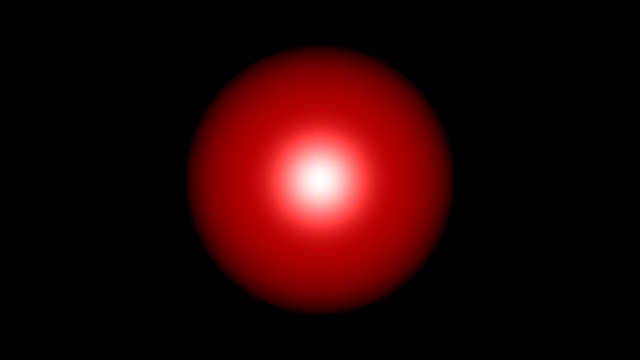
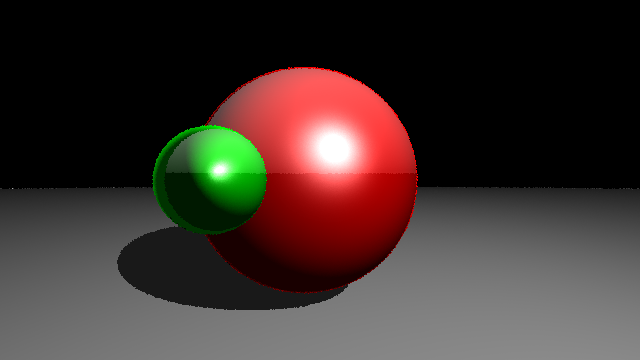
Fix shadows and add reflections

diff --git a/materials/BlinnPhongMaterial.py b/materials/BlinnPhongMaterial.py
@@ -1,5 +1,5 @@
 import numpy as np
-from utils import normalize
+from utils import *
 from materials.Material import Material
 
 
@@ -7,15 +7,21 @@ class BlinnPhongMaterial(Material):
     def __init__(self, color):
         super().__init__(color)
 
-    def get_color(self, surface_normal, ambient, lights, intersection, camera, hitables):
+    def get_color(self, surface_normal, ambient, lights, intersection, camera, hitables, max_reflections):
         illumination = np.zeros(3)
         illumination += self.color["ambient"] * ambient
+        camera_vector = normalize(camera - intersection)
         for light in lights:
-            light_vector = normalize(light.position - intersection)
-            if np.dot(light_vector, surface_normal) >= 0:
-                illumination += self.color["diffuse"] * light.diffuse * np.dot(light_vector, surface_normal)
-
-                camera_vector = normalize(camera - intersection)
-                illumination += self.color["specular"] * light.diffuse * np.dot(surface_normal, normalize(light_vector + camera_vector)) ** (self.color["shininess"] / 4)
-
+            shadow_ray = normalize(light.position - (intersection + 1e-5 * surface_normal))
+            is_shadowed = False
+            for hitable in hitables:
+                if hitable.intersect(shadow_ray, intersection + 1e-5 * surface_normal):
+                    is_shadowed = True
+            if np.dot(shadow_ray, surface_normal) >= 0 and not is_shadowed:
+                illumination += self.color["diffuse"] * light.diffuse * np.dot(shadow_ray, surface_normal)
+                illumination += self.color["specular"] * light.diffuse * np.dot(surface_normal, normalize(shadow_ray + camera_vector)) ** (self.color["shininess"] / 4)
+        try:
+            illumination += self.color["reflection"] * ray_trace(origin=intersection, direction=camera_vector - 2 * np.dot(camera, surface_normal) * surface_normal, hitables=hitables, ambient=ambient, lights=lights, max_reflections=max_reflections)
+        except TypeError:
+            pass
         return illumination

diff --git a/main.py b/main.py
@@ -4,7 +4,6 @@ from hitables.Sphere import Sphere
 from materials.BlinnPhongMaterial import BlinnPhongMaterial
 from utils import *
 
-
 cameraPos = np.array([0, 0, 0])
 
 width, height = 640, 360
@@ -14,17 +13,33 @@ imagePlane = np.array([
     [-0.89, -0.5, 1], [+0.89, -0.5, 1]
 ])
 
-scene = Scene(cameraPos, width, height, imagePlane, 1, np.array([1, 1, 1]))
+scene = Scene(cameraPos, width, height, imagePlane, 1, np.array([1, 1, 1]), 3)
 
-
-scene.add_hitable(Sphere(centre=np.array([0, 0, 2]), radius=0.7, material=BlinnPhongMaterial({
+scene.add_hitable(Sphere(centre=np.array([-0.2, 0, 5]), radius=1.5, material=BlinnPhongMaterial({
     "ambient": np.array([0.1, 0, 0]),
     "diffuse": np.array([0.7, 0, 0]),
     "specular": np.array([1, 1, 1]),
-    "shininess": 100
+    "shininess": 100,
+    "reflection": 1
+})))
+
+scene.add_hitable(Sphere(centre=np.array([-0.3, 0, 1]), radius=0.15, material=BlinnPhongMaterial({
+    "ambient": np.array([0, 0.1, 0]),
+    "diffuse": np.array([0, 0.7, 0]),
+    "specular": np.array([1, 1, 1]),
+    "shininess": 100,
+    "reflection": 1
 })))
 
 
-scene.add_light(Light(position=np.array([0, 0, -3]), diffuse=np.array([1, 1, 1]), specular=np.array([1, 1, 1])))
+scene.add_hitable(Sphere(centre=np.array([0, -9000, 1]), radius=9000 - 1.5, material=BlinnPhongMaterial({
+    "ambient": np.array([0.1, 0.1, 0.1]),
+    "diffuse": np.array([0.7, 0.7, 0.7]),
+    "specular": np.array([1, 1, 1]),
+    "shininess": 100,
+    "reflection": 1
+})))
+
+scene.add_light(Light(position=np.array([5, 5, -4]), diffuse=np.array([1, 1, 1]), specular=np.array([1, 1, 1])))
 
 scene.render("output.png", 3)

diff --git a/Scene.py b/Scene.py
@@ -5,7 +5,7 @@ import beepy
 
 
 class Scene:
-    def __init__(self, camera, width, height, image_plane, antialiasing, ambient):
+    def __init__(self, camera, width, height, image_plane, antialiasing, ambient, max_reflections):
         self.camera = camera
         self.width = width
         self.height = height
@@ -14,6 +14,7 @@ class Scene:
         self.hitables = []
         self.lights = []
         self.ambient = ambient
+        self.max_reflections = max_reflections
 
     # noinspection PyShadowingNames
     def ray_trace(self, alpha, beta):
@@ -22,15 +23,7 @@ class Scene:
             lerp(self.image_plane[2], self.image_plane[3], alpha),
             beta
         )  # take the bilinear interpolation to get the actual image point
-        intersected_objects = []
-        for obj in self.hitables:
-            if obj.intersect(image_point, self.camera):
-                intersected_objects.append(obj)
-        try:
-            closest_object = sorted(intersected_objects, key=(lambda obj: obj.intersect(image_point, self.camera)))[0]
-            return closest_object.get_color(self.camera, image_point, self.ambient, self.lights, self.hitables, )
-        except IndexError:
-            return np.array([0, 0, 0])
+        return ray_trace(origin=self.camera, direction=image_point, hitables=self.hitables, ambient=self.ambient, lights=self.lights, max_reflections=self.max_reflections)
 
     def add_hitable(self, hitable):
         self.hitables.append(hitable)

diff --git a/utils.py b/utils.py
@@ -7,3 +7,18 @@ def lerp(a, b, t):
 
 def normalize(v):
     return v / np.linalg.norm(v)
+
+
+# noinspection PyShadowingNames
+def ray_trace(origin, direction, hitables, ambient, lights, max_reflections):
+    max_reflections -= 1
+    if max_reflections != 0:
+        intersected_hitables = []
+        for hitable in hitables:
+            if hitable.intersect(direction, origin):
+                intersected_hitables.append(hitable)
+        try:
+            closest_object = sorted(intersected_hitables, key=(lambda hitable: hitable.intersect(direction, origin)))[0]
+            return closest_object.get_color(origin, direction, ambient, lights, hitables, max_reflections)
+        except IndexError:
+            return np.array([0, 0, 0])

diff --git a/hitables/Sphere.py b/hitables/Sphere.py
@@ -22,7 +22,7 @@ class Sphere:
         intersection = lerp(camera, image_point, self.intersect(image_point, camera))
         return normalize(intersection - self.centre)
 
-    def get_color(self, camera, image_point, ambient, lights, hitables):
+    def get_color(self, camera, image_point, ambient, lights, hitables, max_reflections):
         intersection = lerp(camera, image_point, self.intersect(image_point, camera))
         return self.material.get_color(self.normal(camera, image_point), ambient, lights, intersection, camera,
-                                       hitables)
+                                       hitables, max_reflections=max_reflections)

diff --git a/materials/NormalMaterial.py b/materials/NormalMaterial.py
@@ -5,5 +5,5 @@ class NormalMaterial(Material):
     def __init__(self, color):
         super().__init__(color)
 
-    def get_color(self, surface_normal, ambient, lights, intersection, camera, hitables):
+    def get_color(self, surface_normal, ambient, lights, intersection, camera, hitables, max_reflections):
         return 0.5 * (surface_normal + 1)

diff --git a/materials/BasicMaterial.py b/materials/BasicMaterial.py
@@ -5,5 +5,5 @@ class BasicMaterial(Material):
     def __init__(self, color):
         super().__init__(color)
 
-    def get_color(self, surface_normal, ambient, lights, intersection, camera, hitables):
+    def get_color(self, surface_normal, ambient, lights, intersection, camera, hitables, max_reflections):
         return self.color["color"]

diff --git a/materials/Material.py b/materials/Material.py
@@ -2,5 +2,5 @@ class Material:
     def __init__(self, color):
         self.color = color
 
-    def get_color(self, surface_normal, ambient, lights, intersection, camera, hitables):
+    def get_color(self, surface_normal, ambient, lights, intersection, camera, hitables, max_reflections):
         raise NotImplementedError
